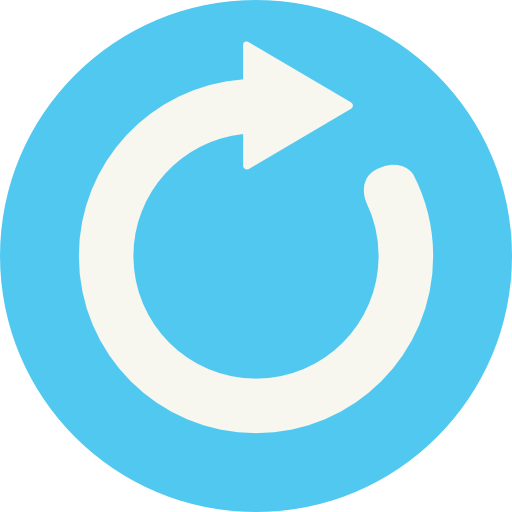
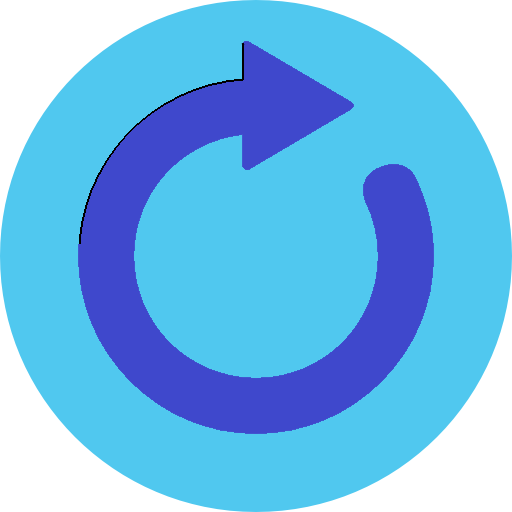
Cambiados los botones, animaciones de hover y pressed y cambiada un poco la vista principal pero sin terminar todo

Changed region(s): [[0.125, 0.0625, 0.875, 0.875]]

diff --git a/src/css/HojaDeEstilo.css b/src/css/HojaDeEstilo.css
@@ -36,38 +36,90 @@
     -fx-background-image: url("../img/refresh.png") ;
     -fx-background-repeat: no-repeat;
     -fx-background-size: 50 45;
-    -fx-background-color: #F5FFFF;
+    -fx-background-color: transparent;
+}
+
+#bRefresh:hover {
+    -fx-background-image: url("../img/refreshHover.png");
+    -fx-background-repeat: no-repeat;
+    -fx-background-size: 50 45;
+    -fx-background-color: transparent;
+}
+
+#bRefresh:pressed {
+    -fx-background-image: url("../img/refreshPressed.png");
+    -fx-background-repeat: no-repeat;
+    -fx-background-size: 50 45;
 }
 
 #bMas{
     -fx-background-image: url("../img/plus.png") ;
     -fx-background-repeat: no-repeat;
     -fx-background-size: 50 45;
-    -fx-background-color: #F5FFFF;
+    -fx-background-color: transparent;
+}
+
+#bMas:hover {
+    -fx-background-image: url("../img/plusHover.png");
+    -fx-background-repeat: no-repeat;
+    -fx-background-size: 50 45;
 }
 
 #bMas:pressed {
+    -fx-background-image: url("../img/plusPressed.png");
+    -fx-background-repeat: no-repeat;
+    -fx-background-size: 50 45;
+}
+
+#bDelete{
+    -fx-background-image: url("../img/delete.png") ;
+    -fx-background-repeat: no-repeat;
+    -fx-background-size: 50 45;
+    -fx-background-color: transparent;
+}
+
+
+#bDelete:hover {
+    -fx-background-image: url("../img/deleteHover.png");
+    -fx-background-repeat: no-repeat;
+    -fx-background-size: 50 45;
+}
+
+#bDelete:pressed {
+    -fx-background-image: url("../img/deletePressed.png");
+    -fx-background-repeat: no-repeat;
+    -fx-background-size: 50 45;
+}
+
+
+
+
+
+.menu-bar{
+  -fx-background-color: white;
+  -fx-border-color:  black;
+  -fx-border-width: 0 0 2 0;
+  -fx-font-weight: bold;
+}
+
+#bGraph{
+    -fx-background-image: url("../img/graph.png") ;
+    -fx-background-repeat: no-repeat;
+    -fx-background-size: 30 25;
+    -fx-background-color: white;
+}
+
+#iSearch{
+    -fx-background-color: white;
+}
+
+/*.menu:hover, .menu-item:hover{
     -fx-background-color: red;
-}
-
-#bRefresh:pressed {
-    -fx-background-color: red;
-}
-
-.button:hover {
-    -fx-background-color: #3a3a3a;
-}
-
-.button:pressed, .button:default:hover:pressed {
-  -fx-background-color: #66e0ff;
-  
-}
-
+}*/
 
 /*#hBox{
-    -fx-background-color: #BCEAEA;
     -fx-border-insets: 1 1 1 1;
     -fx-border-color: black;
-    -fx-border-radius: 10%;
-    -fx-background-radius: 20%;
+    -fx-border-radius: 25;
+    -fx-background-radius: 100;
 }*/

diff --git a/src/view/VistaPrincipalController.java b/src/view/VistaPrincipalController.java
@@ -1,5 +1,5 @@
-<zaxc v/*
- * To change this license header, choose License Headers in Project Properties.
+
+ /* To change this license header, choose License Headers in Project Properties.
  * To change this template file, choose Tools | Templates
  * and open the template in the editor.
  */
@@ -17,34 +17,11 @@ import javafx.scene.control.cell.PropertyValueFactory;
  */
 public class VistaPrincipalController {
     
-    @FXML
-    private TableView tablaP;
-    
-    @FXML
-    private TableColumn columID;
-    
-    @FXML
-    private TableColumn columN;
-    
-    
+     //Referencia a la clase principal
     private GestorLibreria gestorLibreria;
-    
-    VistaPrincipalController(){
-        
-    }
-    
-    @FXML
-    private void initialize() {
-        
-        
-        String ID = "SUPA";
-        String nombre = "DUPA";
-        columID.setCellValueFactory(new PropertyValueFactory<>(ID));
-        columN.setCellValueFactory(new PropertyValueFactory<>(nombre));
-    }
-    
+
+    //Es llamada por la clase Principal para tener una referencia de vuelta de si misma
     public void setLibretaDirecciones(GestorLibreria gestorLibreria) {
-        
         this.gestorLibreria = gestorLibreria;
     }
 

diff --git a/src/view/VistaListadoController.java b/src/view/VistaListadoController.java
@@ -43,7 +43,7 @@ public class VistaListadoController {
         columN.setCellValueFactory(new PropertyValueFactory<>(nombre));
     }
     
-    public void setLibretaDirecciones(GestorLibreria gestorLibreria) {
+    public void setGestorLibreria(GestorLibreria gestorLibreria) {
         
         this.gestorLibreria = gestorLibreria;
     }
